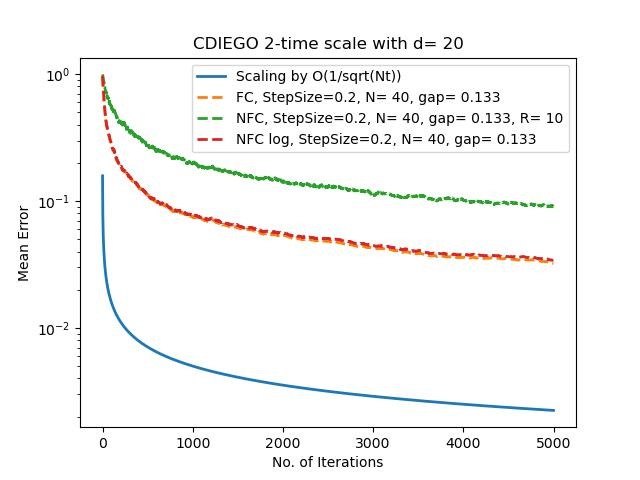
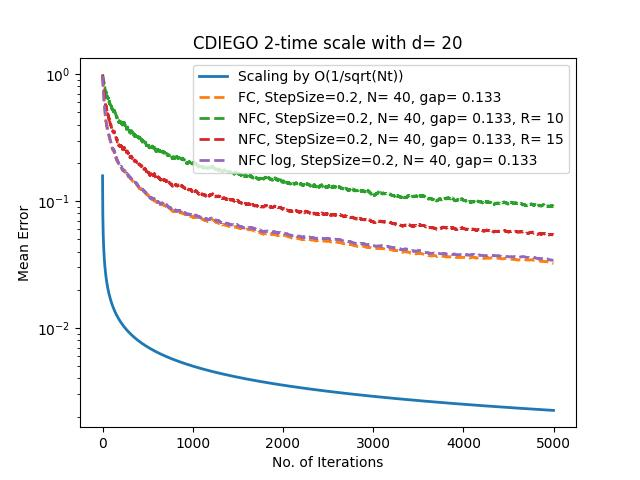
correction for T_c (doesn't increases with t)

diff --git a/Hyp_B.py b/Hyp_B.py
@@ -80,9 +80,6 @@ def CDIEGO_HypB(W,N,d,vti,tot_iter,x_samples,pca_vect,step_size,R):
         upd_n = np.matrix(np.zeros([d, N]))  # Store update values across all nodes for each sample
         # Begin loop to take sample from each node and update eigenvector estimate
         ## Calculate Communication Rounds
-        if (R<0):
-            Tmix = Tmix_calc(W_nf, N)
-            R = int(np.ceil(Tmix * (3/2) *np.log(N * (sample + 1))))  # sample+1 as sample starts from 0.
         for i_n in range(0, N):
             x_n = Column(x_samples_n[i_n, sample, :])  # Draw sample across node i_n
             vn = v_n[:, i_n]  # Draw current estimate of eigenvector across node i_n
@@ -107,15 +104,16 @@ def CDIEGO_HypB(W,N,d,vti,tot_iter,x_samples,pca_vect,step_size,R):
     max_err = np.squeeze(np.array(np.max(err_n, axis=0)))
     return max_err # Give out max error among all nodes from q_1 instead of mean error.
 #%% Define Parameters
-d = 20 # Set dimensionality of data
-tot_iter = 5000 # Run for t iterations.
+d = 100 # Set dimensionality of data
+tot_iter = 1000 # Run for t iterations.
 step_size = 0.2
 eig_gap_fac =  0.23 #Controls the factor of eigengap. See function data_gen_cov_mat in functions.py
-N = 40 # no of nodes.
-monte_carlo = 50
-p = 0.1  # probability parameter to use for Erdos-Renyi graph generation.
+N = 30 # no of nodes.
+monte_carlo = 20
+p = 0.2  # probability parameter to use for Erdos-Renyi graph generation.
 #%% Compute true approximation (ignoring the scaling part)
-diego_scaling_true = 1/(np.sqrt((N*np.arange(1,tot_iter+1)))) # is scaling only by O(1/sqrt(Nt))
+# diego_scaling_true = 1/(np.sqrt((N*np.arange(1,tot_iter+1)))) # is scaling only by O(1/sqrt(Nt))
+diego_scaling_true = 1/(np.sqrt((N*np.arange(1,tot_iter+1)))) + np.arange(1,tot_iter+1)
 # %% Generate Fully Connected Graph for Hyp A (which assumes Federated Learning)
 W_f = np.matrix(1 / N * (np.ones((N, 1)) @ np.ones((N, 1)).T))
 #%% Generate Erdos-Renyi Graph weight matrix
@@ -123,9 +121,12 @@ A = gen_graph_adjacency(N, p)
 W_nf = W_gen_M(N, A)
 #%% Begin Monte Carlo simulation
 diego_f_cnnc_m = np.zeros((monte_carlo,tot_iter))
-cdiego_fix_round_m = np.zeros((monte_carlo,tot_iter))
-cdiego_log_round_m = np.zeros((monte_carlo,tot_iter))
-R_fix = 10
+cdiego_round_m_a = np.zeros((monte_carlo,tot_iter))
+cdiego_round_m_b = np.zeros((monte_carlo,tot_iter))
+cdiego_round_m_c = np.zeros((monte_carlo,tot_iter))
+Tmix = Tmix_calc(W_nf, N)
+R_max = int(np.ceil((Tmix * 3/2 *np.log(N * (tot_iter)))))  # sample+1 as sample starts from 0.
+R_max
 for mon in range(0,monte_carlo):
     print('Currently Processing Nodes: ', N, ' of Monte Carlo: ',mon,' \n')
     #%% Data Generation obtain covariance matrix and pca vector
@@ -137,22 +138,34 @@ for mon in range(0,monte_carlo):
     #%% Run DIEGO Algorithm
     diego_f_cnnc_m[mon,:] = DIEGO_HypA(W_f,N,d,vti,tot_iter,x_samples,pca_vect,step_size)
     #%% Run CDIEGO Algorithm
-    cdiego_fix_round_m[mon,:] = CDIEGO_HypB(W_nf,N,d,vti,tot_iter,x_samples,pca_vect,step_size,R_fix)
-    cdiego_log_round_m[mon, :] = CDIEGO_HypB(W_nf, N, d, vti, tot_iter, x_samples, pca_vect, step_size, -1)
+    cdiego_round_m_a[mon,:] = CDIEGO_HypB(W_nf,N,d,vti,tot_iter,x_samples,pca_vect,step_size,R_max-50)
+    cdiego_round_m_b[mon, :] = CDIEGO_HypB(W_nf, N, d, vti, tot_iter, x_samples, pca_vect, step_size, R_max)
+    # cdiego_round_m_c[mon, :] = CDIEGO_HypB(W_nf, N, d, vti, tot_iter, x_samples, pca_vect, step_size, R_max+50)
+#%% Take the mean of Monte-Carlo simulations
 diego_f_cnnc= np.squeeze(np.array(np.mean(diego_f_cnnc_m, axis=0)))
-cdiego_fix_round= np.squeeze(np.array(np.mean(cdiego_fix_round_m, axis=0)))
-cdiego_log_round= np.squeeze(np.array(np.mean(cdiego_log_round_m, axis=0)))
+cdiego_round_a= np.squeeze(np.array(np.mean(cdiego_round_m_a, axis=0)))
+cdiego_round_b= np.squeeze(np.array(np.mean(cdiego_round_m_b, axis=0)))
+# cdiego_round_c= np.squeeze(np.array(np.mean(cdiego_round_m_c, axis=0)))
 #%% Plot Results
 plt.figure()
-plt.semilogy(diego_scaling_true, label='Scaling by O(1/sqrt(Nt))',linestyle='solid',linewidth=2)
+# plt.semilogy(diego_scaling_true, label='Scaling by O(1/sqrt(Nt))',linestyle='solid',linewidth=2)
 plt.semilogy(diego_f_cnnc, label='FC, StepSize='+str(step_size)+', N= '+str(N)+', gap= '+str(eig_gap),linestyle='dashed',linewidth=2)
-plt.semilogy(cdiego_fix_round, label='NFC, StepSize='+str(step_size)+', N= '+str(N)+', gap= '+str(eig_gap)+', R= '+str(R_fix),linestyle='dashed',linewidth=2)
-plt.semilogy(cdiego_log_round, label='NFC log, StepSize='+str(step_size)+', N= '+str(N)+', gap= '+str(eig_gap),linestyle='dashed',linewidth=2)
+plt.semilogy(cdiego_round_a, label='NFC, StepSize='+str(step_size)+', N= '+str(N)+', gap= '+str(eig_gap)+', R= '+str(R_max-50),linestyle='dashed',linewidth=2)
+plt.semilogy(cdiego_round_b, label='NFC, StepSize='+str(step_size)+', N= '+str(N)+', gap= '+str(eig_gap)+', R= '+str(R_max),linestyle='dashed',linewidth=2)
+# plt.semilogy(cdiego_round_c, label='NFC, StepSize='+str(step_size)+', N= '+str(N)+', gap= '+str(eig_gap)+', R= '+str(R_max+50),linestyle='dashed',linewidth=2)
 plt.title('CDIEGO 2-time scale with d= '+str(d))
 plt.ylabel('Mean Error')
 plt.xlabel('No. of Iterations')
 plt.legend()
 x = int(np.round(np.random.random()*100,2)) # Assign random id to file to prevent overwriting
-filename_fig = 'figures/hypothesis_B_iter_count_'+str(tot_iter)+'_dimdata_'+str(d)+'_nodes_'+str(N)+'_fid_'+str(x)+'.jpg'
-plt.savefig(filename_fig)
+# filename_fig = 'figures/hypothesis_B_iter_count_'+str(tot_iter)+'_dimdata_'+str(d)+'_nodes_'+str(N)+'_fid_'+str(x)+'.jpg'
+# plt.savefig(filename_fig)
 plt.show()
+# #%% Plot log R curve
+# plt.figure()
+# Tmix = Tmix_calc(W_nf, N)
+# R = int(np.ceil(Tmix * (3/2) *np.log(N * (np.arange(1,tot_iter+1)))))  # sample+1 as sample starts from 0.
+# plt.title('Communication rounds increasing in log sense')
+# plt.ylabel('Comm Rounds')
+# plt.xlabel('No. of Iterations')
+# plt.show()
